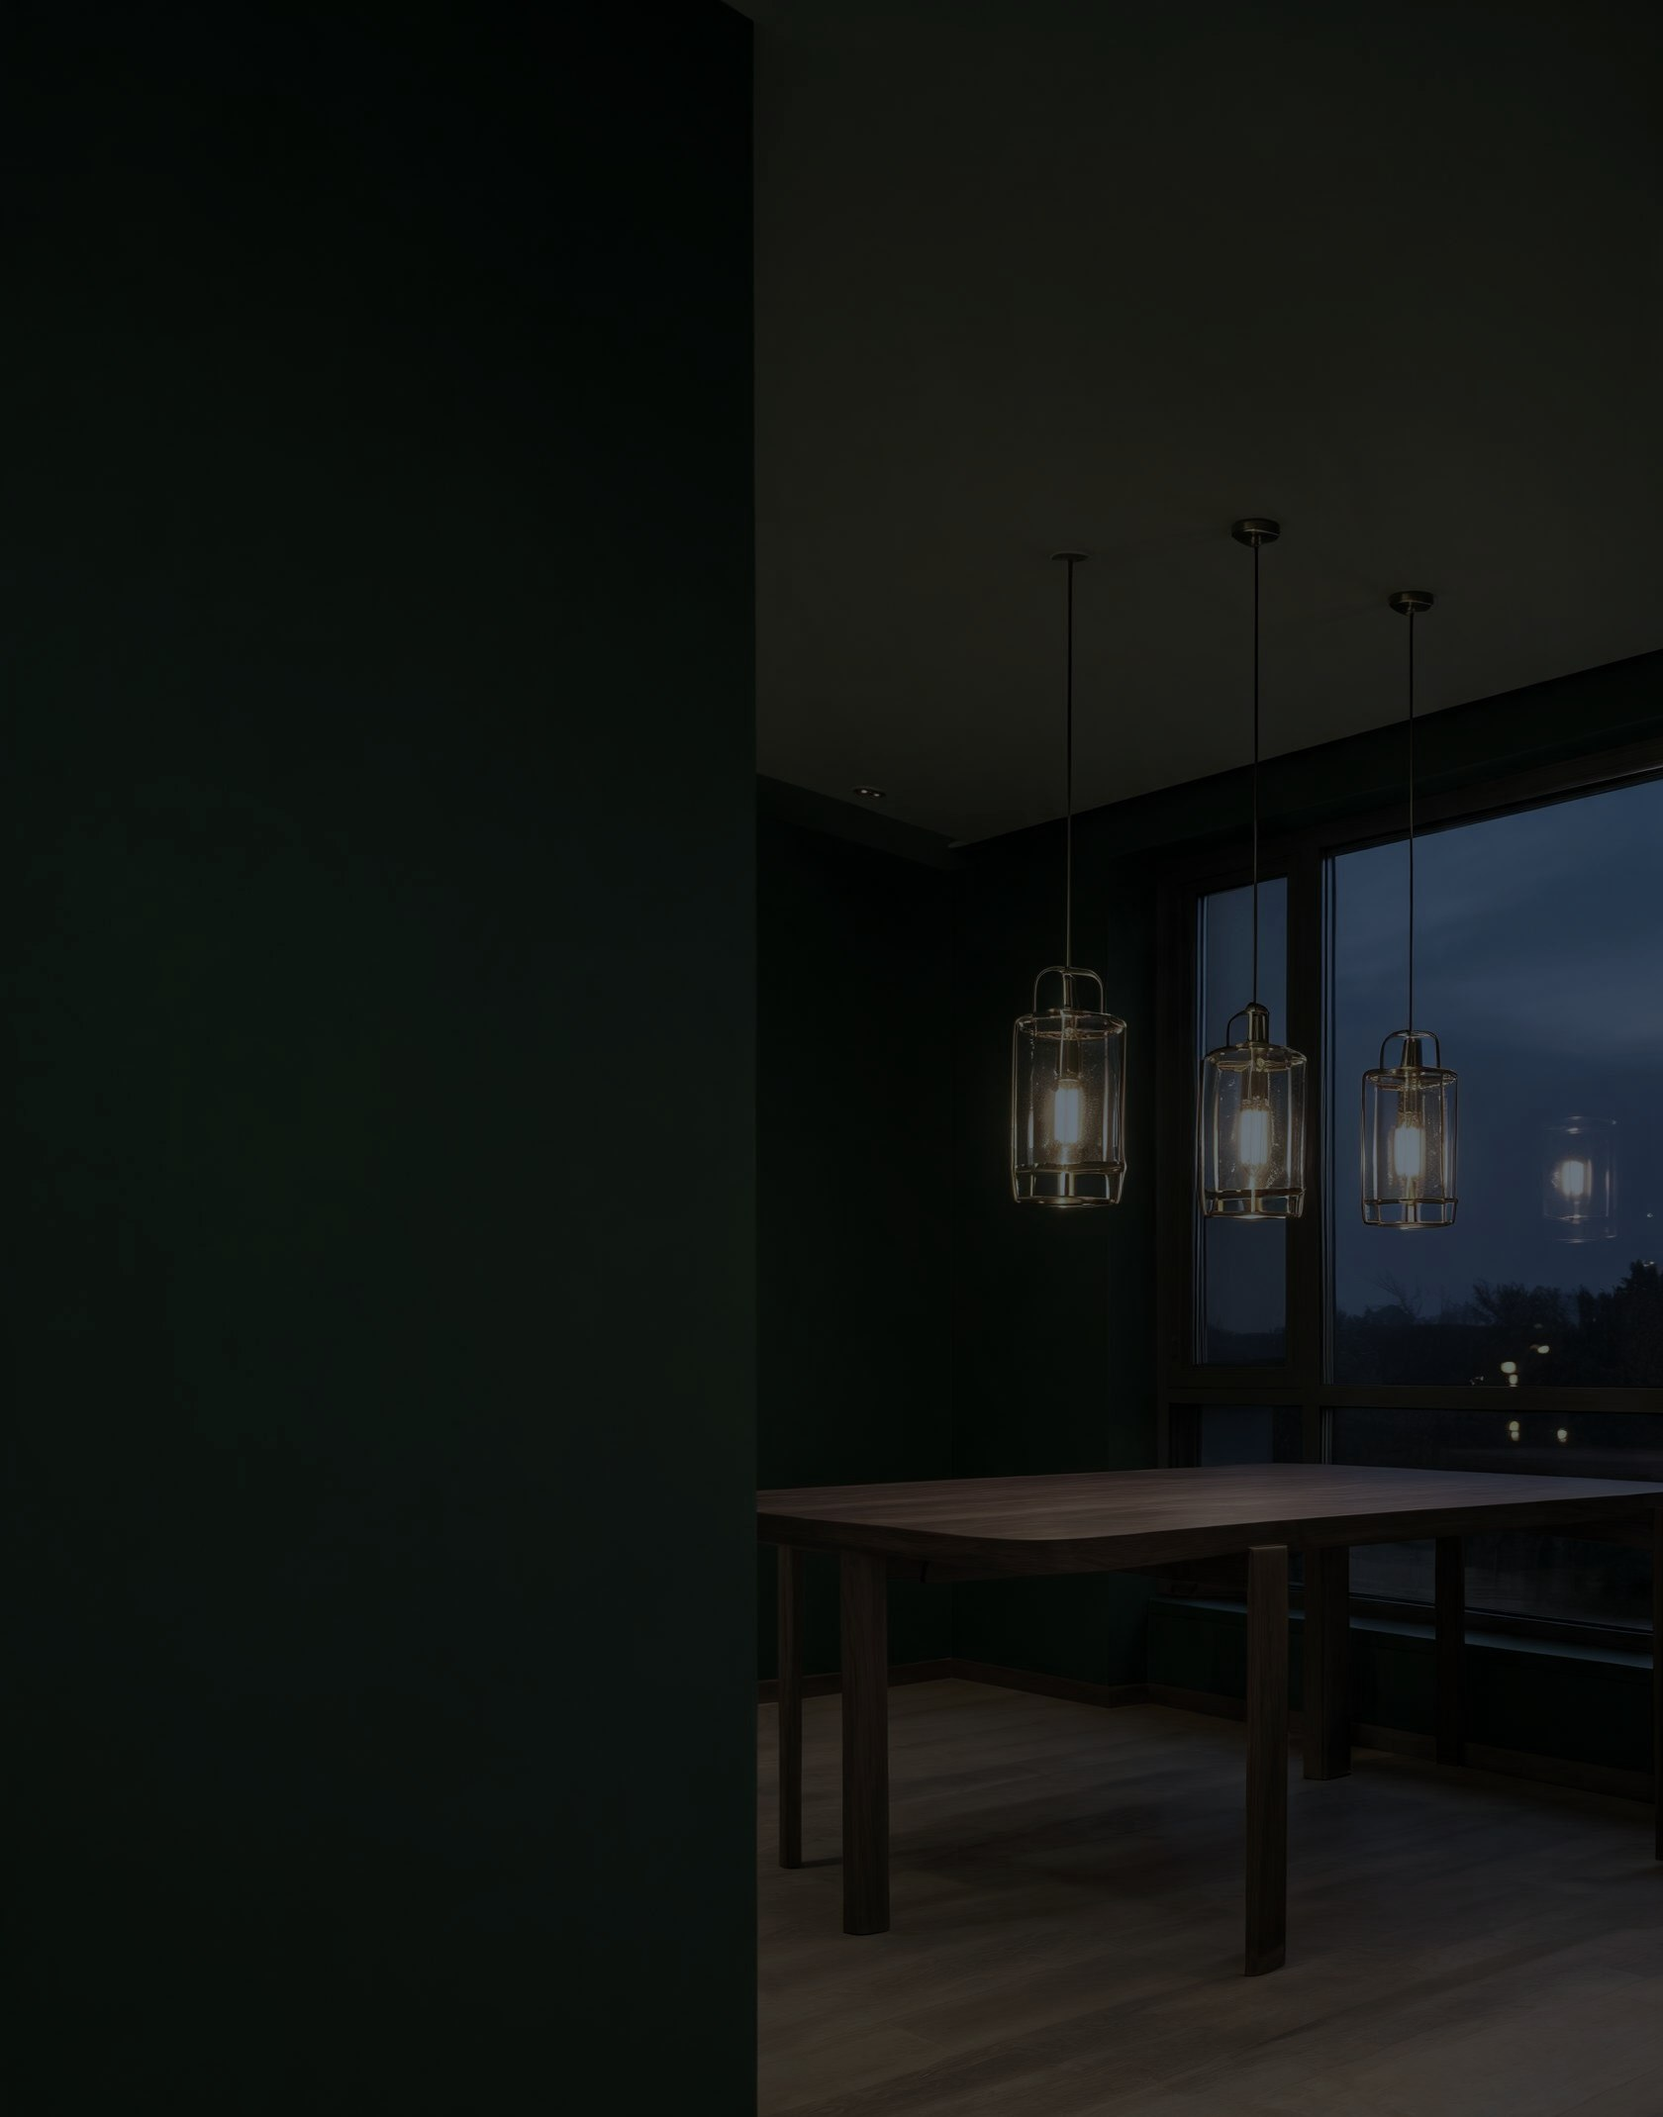
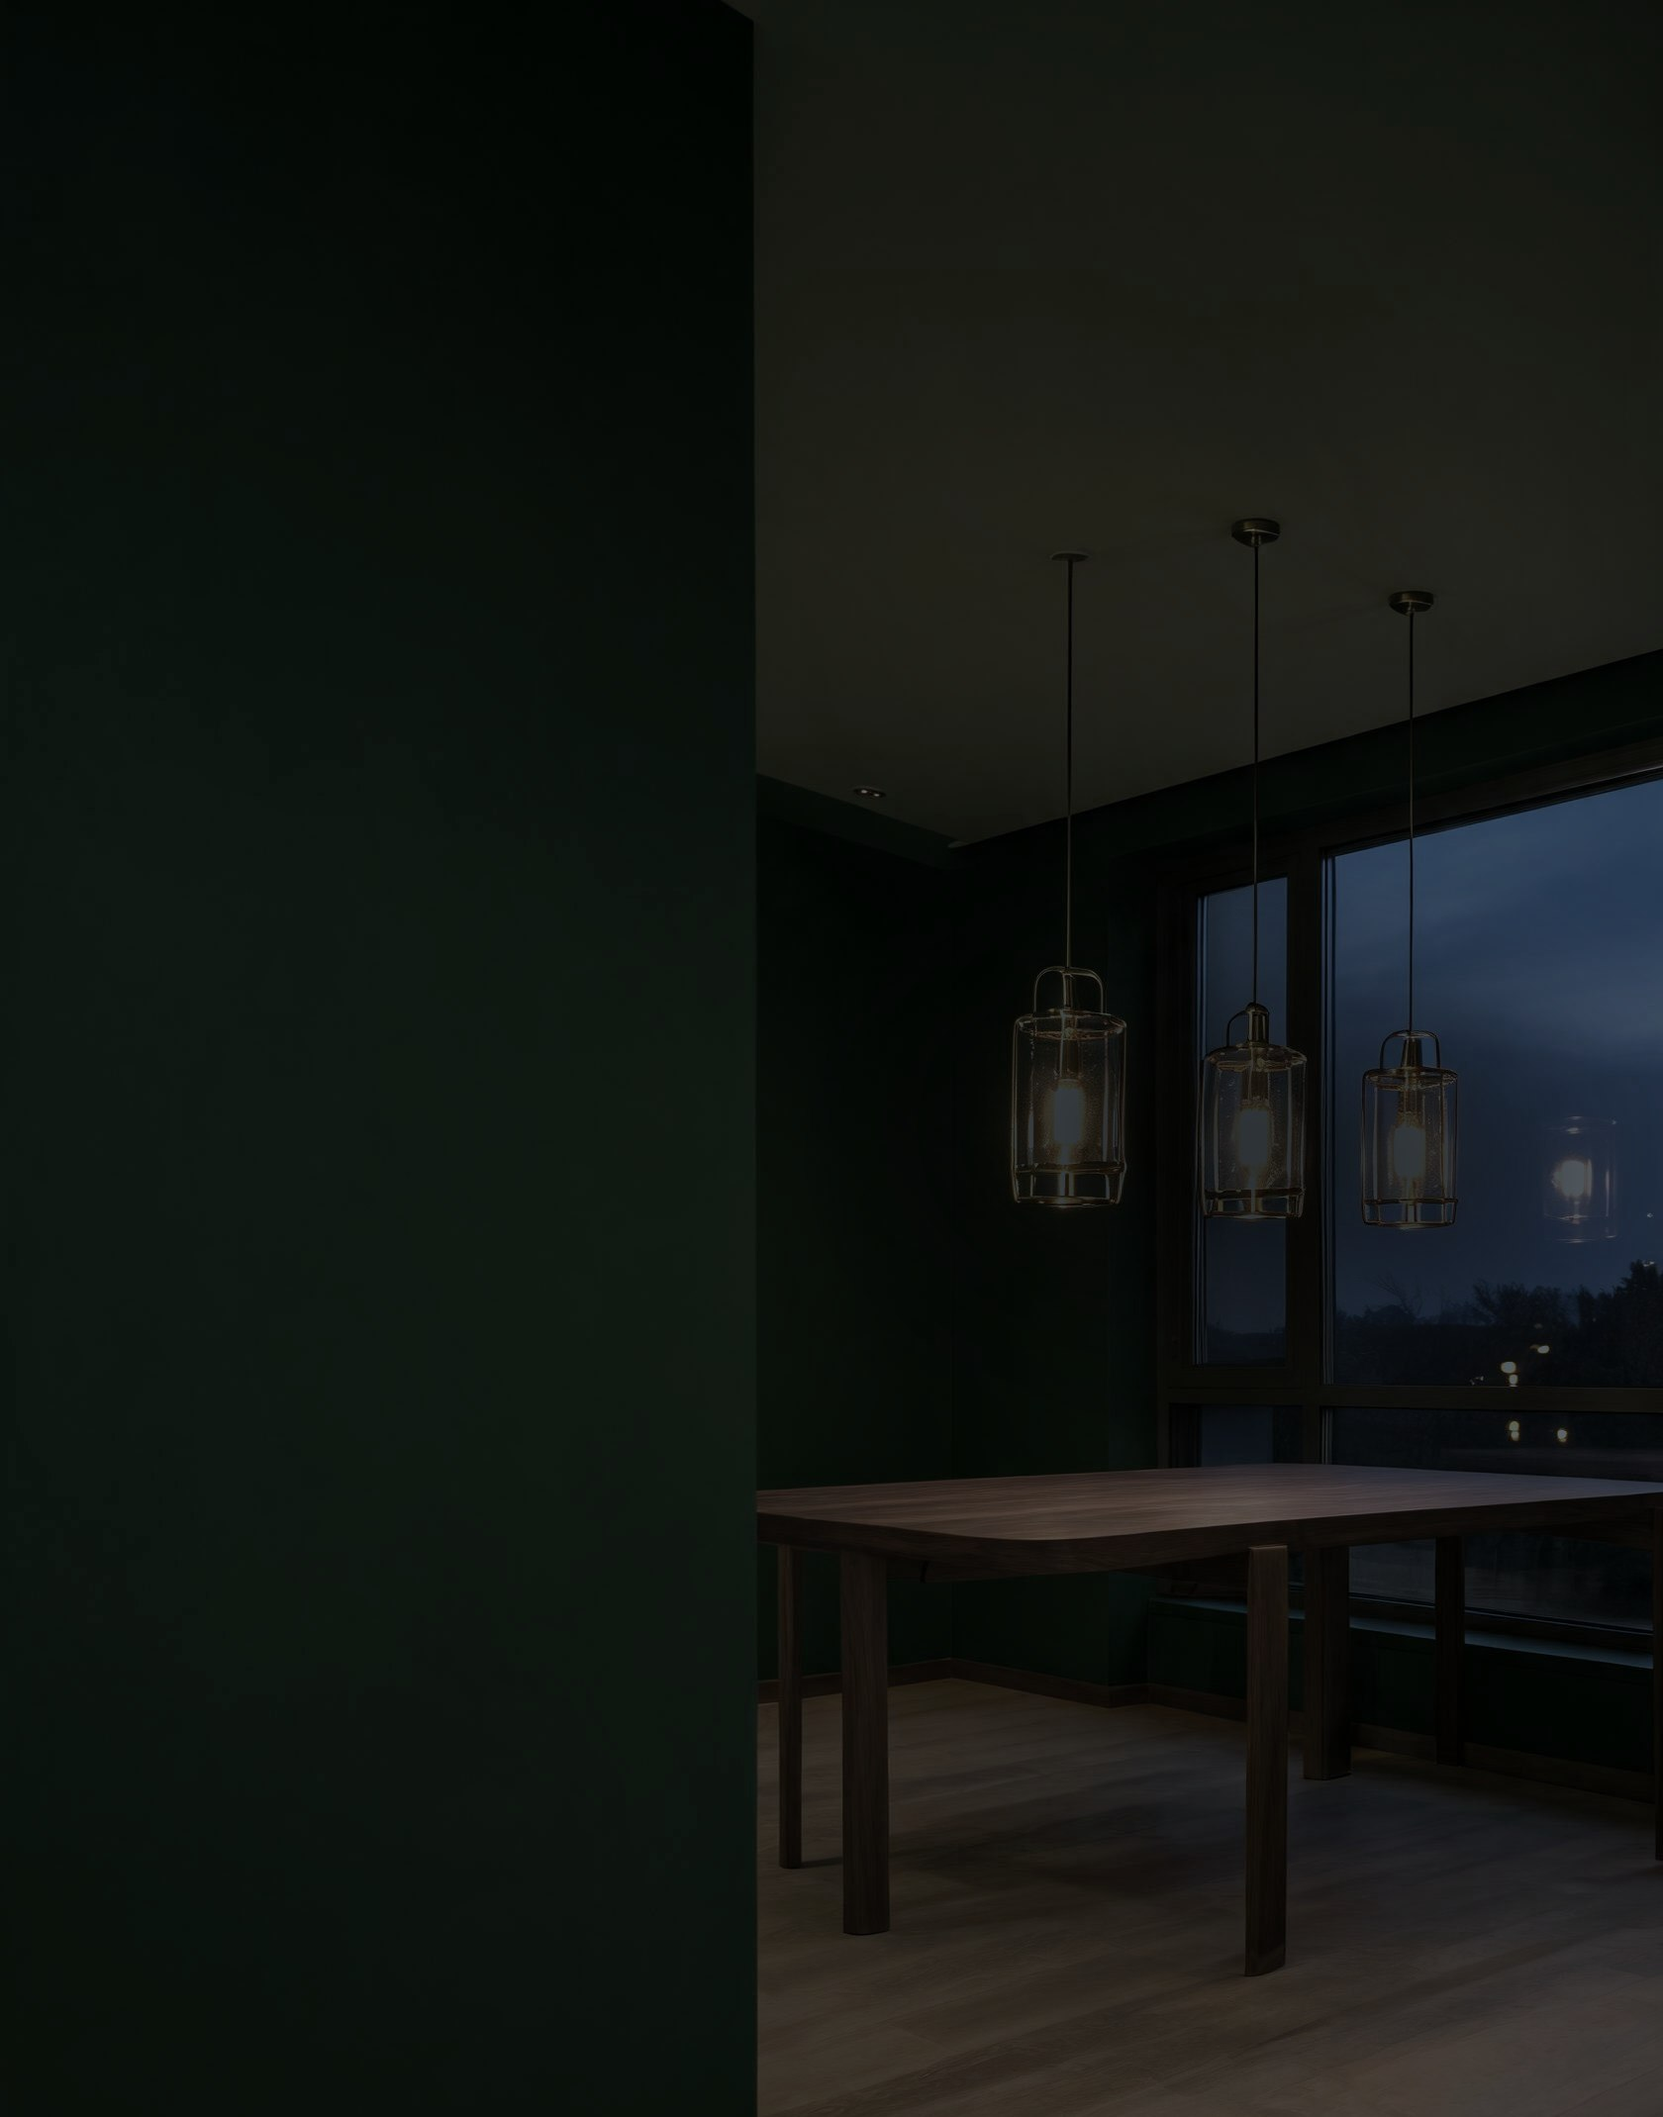
Extinguish hero bulbs in lights-off state, style inner pages, nav polish
- Re-render lights-off cover with crushed highlights and masked
  lamp cores so the pendants read as unlit glass
- Add Home to the main nav, numbered series dropdown, bronze
  header accent line, and a working language dropdown
  (English current / Chinese in preparation)
- Give catalogue and series pages dark photographic page heroes;
  tint contact/search/404/thanks heroes; dark closing CTA on
  factory/oem/about pages; tinted blog list and post CTA card

Changed region(s): [[0.7119, 0.4937, 0.8976, 0.5863], [0.619, 0.4937, 0.681, 0.5863], [0.9286, 0.5554, 0.9595, 0.5863]]

diff --git a/static/css/imperial.css b/static/css/imperial.css
@@ -1496,7 +1496,6 @@ ul, ol { margin: 0 0 1em; padding-left: 1.15em; }
   }
   .has-sub.is-open .sub-menu { display: block; }
   .sub-link { padding: 10px 0 10px 18px; border-bottom: 0; }
-  .nav-lang { display: none; }
   .nav-search .nav-link { padding: 16px 0; }
 
   .hero { min-height: 0; }
@@ -1541,4 +1540,112 @@ ul, ol { margin: 0 0 1em; padding-left: 1.15em; }
 @media (prefers-reduced-motion: reduce) {
   *, *::before, *::after { animation-duration: .01ms !important; transition-duration: .01ms !important; }
   html { scroll-behavior: auto; }
+}
+
+/* ============================================================
+   NAV EXTRAS — language menu, dropdown numbers, header accent
+   ============================================================ */
+.site-header::before {
+  content: "";
+  position: absolute;
+  top: 0;
+  left: 0;
+  right: 0;
+  height: 2px;
+  background: linear-gradient(90deg, var(--bronze) 0%, rgba(125,106,76,.25) 55%, transparent 100%);
+  pointer-events: none;
+}
+.sub-num {
+  font-family: var(--font-serif);
+  font-style: italic;
+  font-size: 12px;
+  color: var(--muted-2);
+  min-width: 18px;
+}
+.lang-btn {
+  background: none;
+  border: 0;
+  cursor: pointer;
+  font-family: var(--font-sans);
+  gap: 7px;
+}
+.lang-btn svg { transition: transform .25s var(--ease); }
+.nav-lang.is-open .lang-btn svg, .nav-lang:hover .lang-btn svg { transform: rotate(180deg); }
+.sub-menu--lang { min-width: 210px; left: auto; right: 0; }
+.sub-link.is-current { color: var(--bronze); }
+.sub-link.is-disabled { color: var(--muted-2); cursor: default; }
+.sub-link.is-disabled:hover { background: transparent; color: var(--muted-2); }
+.lang-note {
+  margin-left: auto;
+  font-family: var(--font-serif);
+  font-style: italic;
+  font-size: 12px;
+  letter-spacing: 0;
+  text-transform: none;
+  color: var(--muted-2);
+}
+
+/* ============================================================
+   INNER PAGE HEROES — dark media + tinted variants
+   ============================================================ */
+.page-hero--media {
+  position: relative;
+  overflow: hidden;
+  background: var(--coal);
+  color: var(--paper);
+  border-bottom: 0;
+  padding: 120px 0 84px;
+}
+.page-hero__media { position: absolute; inset: 0; }
+.page-hero__media img { width: 100%; height: 100%; object-fit: cover; }
+.page-hero__scrim {
+  position: absolute;
+  inset: 0;
+  background:
+    linear-gradient(to top, rgba(16,15,11,.85) 0%, rgba(16,15,11,.4) 55%, rgba(16,15,11,.25) 100%),
+    linear-gradient(100deg, rgba(16,15,11,.5) 0%, rgba(16,15,11,.05) 65%);
+}
+.page-hero--media .shell { position: relative; z-index: 2; }
+.page-hero--media h1 { color: var(--paper); }
+.page-hero--media .page-hero__lede { color: rgba(246,244,238,.82); }
+.page-hero--media .page-hero__count { color: rgba(246,244,238,.62); }
+.page-hero--media .breadcrumbs ol { color: rgba(246,244,238,.5); }
+.page-hero--media .breadcrumbs a { color: rgba(246,244,238,.7); }
+.page-hero--media .breadcrumbs a:hover { color: var(--paper); }
+.page-hero--media .breadcrumbs li + li::before { color: rgba(246,244,238,.32); }
+
+.page-hero--tint { background: var(--paper-2); }
+
+.section--tint {
+  background: var(--paper-2);
+  border-top: 1px solid var(--line);
+  border-bottom: 1px solid var(--line);
+}
+
+/* default pages: dark closing CTA */
+.page-cta {
+  margin: 88px 0 96px;
+  background: var(--coal);
+  color: var(--paper);
+  padding: 72px 64px;
+}
+.page-cta h2 { color: var(--paper); margin-bottom: .4em; }
+.page-cta p { color: rgba(246,244,238,.66); max-width: 520px; }
+.page-cta .eyebrow { color: rgba(246,244,238,.55); }
+.page-cta .eyebrow::after { background: rgba(246,244,238,.25); }
+.page-cta__actions { display: flex; gap: 14px; flex-wrap: wrap; margin-top: 34px; }
+
+/* blog post CTA: tinted card */
+.post-cta {
+  background: var(--paper-2);
+  border: 1px solid var(--line);
+  padding: 48px 52px;
+  margin-top: 80px;
+}
+.post-cta h2 { font-size: clamp(1.6rem, 2.6vw, 2.2rem); }
+
+@media (max-width: 860px) {
+  .page-hero--media { padding: 150px 0 60px; }
+  .page-cta { padding: 52px 32px; margin: 64px 0 72px; }
+  .post-cta { padding: 36px 28px; }
 }

diff --git a/layouts/_partials/header.html b/layouts/_partials/header.html
@@ -21,6 +21,9 @@
 
     <nav class="site-nav" id="site-nav" aria-label="Main">
       <ul class="nav-list">
+        <li class="nav-item">
+          <a href="{{ "" | absURL }}" class="nav-link{{ if .IsHome }} is-active{{ end }}">Home</a>
+        </li>
         {{- range site.Menus.main }}
         {{- $active := or ($.IsMenuCurrent "main" .) ($.HasMenuCurrent "main" .) -}}
         {{- if eq .Name "Products" }}
@@ -28,8 +31,8 @@
           <a href="{{ .URL | absURL }}" class="nav-link{{ if $active }} is-active{{ end }}">Products</a>
           <button class="sub-toggle" type="button" aria-expanded="false" aria-label="Show product series">+</button>
           <div class="sub-menu">
-            {{- range (site.GetPage "/products").Sections }}
-            <a href="{{ .RelPermalink }}" class="sub-link">{{ .Params.seriesName | default .Title }}</a>
+            {{- range $i, $s := (site.GetPage "/products").Sections }}
+            <a href="{{ $s.RelPermalink }}" class="sub-link"><span class="sub-num">{{ printf "%02d" (add $i 1) }}</span>{{ $s.Params.seriesName | default $s.Title }}</a>
             {{- end }}
           </div>
         </li>
@@ -44,10 +47,14 @@
             <svg width="17" height="17" viewBox="0 0 20 20" fill="none" stroke="currentColor" stroke-width="1.4"><circle cx="8.5" cy="8.5" r="5.5"/><path d="M12.8 12.8L18 18"/></svg>
           </a>
         </li>
-        <li class="nav-item nav-lang">
-          <span class="lang-switch" role="button" tabindex="0" aria-disabled="true" title="English is the only language available in this release">EN
-            <svg width="9" height="9" viewBox="0 0 10 10" fill="none" stroke="currentColor" stroke-width="1.2"><path d="M2 4l3 3 3-3"/></svg>
-          </span>
+        <li class="nav-item nav-lang has-sub">
+          <button class="nav-link lang-btn" type="button" aria-expanded="false" aria-haspopup="true">EN
+            <svg width="9" height="9" viewBox="0 0 10 10" fill="none" stroke="currentColor" stroke-width="1.2" aria-hidden="true"><path d="M2 4l3 3 3-3"/></svg>
+          </button>
+          <div class="sub-menu sub-menu--lang">
+            <span class="sub-link is-current">English<span class="lang-note">current</span></span>
+            <span class="sub-link is-disabled" title="Chinese version is in preparation">中文<span class="lang-note">in preparation</span></span>
+          </div>
         </li>
       </ul>
     </nav>

diff --git a/layouts/products/list.html b/layouts/products/list.html
@@ -6,10 +6,21 @@
     (dict "name" "Home" "url" ("" | absURL))
     (dict "name" "Products" "url" ("products/" | absURL))
     (dict "name" (.Params.seriesName | default .Title) "url" .RelPermalink) -}}
-  <section class="page-hero">
+  {{- $heroFiles := dict
+    "pendant" "series-pendant.jpg"
+    "ceiling" "series-ceiling.jpg"
+    "outdoor" "series-outdoor.jpg"
+    "wall" "series-wall.jpg"
+    "table" "series-table.jpg"
+    "floor" "series-floor.jpg"
+  -}}
+  {{- $heroFile := index $heroFiles .Params.seriesKey | default "hero-interior.jpg" -}}
+  <section class="page-hero page-hero--media">
+    <div class="page-hero__media" aria-hidden="true"><img src="{{ (printf "images/%s" $heroFile) | absURL }}" alt="" width="1200" height="900"></div>
+    <div class="page-hero__scrim" aria-hidden="true"></div>
     <div class="shell">
       {{ partial "breadcrumbs.html" $crumbs }}
-      <p class="eyebrow">{{ .Params.seriesName }}</p>
+      <p class="eyebrow eyebrow--light">{{ .Params.seriesName }}</p>
       <h1>{{ .Title }}</h1>
       <p class="page-hero__lede">{{ .Description }}</p>
       <p class="page-hero__count">{{ len $items }} models in this series</p>
@@ -87,10 +98,12 @@
   </section>
 {{- else -}}
   {{- $series := .Sections -}}
-  <section class="page-hero">
+  <section class="page-hero page-hero--media">
+    <div class="page-hero__media" aria-hidden="true"><img src="{{ "images/hero-interior.jpg" | absURL }}" alt="" width="1680" height="2139"></div>
+    <div class="page-hero__scrim" aria-hidden="true"></div>
     <div class="shell">
       {{ partial "breadcrumbs.html" (slice (dict "name" "Home" "url" ("" | absURL)) (dict "name" "Products" "url" .RelPermalink)) }}
-      <p class="eyebrow">Catalogue</p>
+      <p class="eyebrow eyebrow--light">Catalogue</p>
       <h1 class="h-display">Product Catalogue</h1>
       <p class="page-hero__lede">{{ .Description }}</p>
     </div>

diff --git a/layouts/_default/single.html b/layouts/_default/single.html
@@ -25,6 +25,16 @@
       <p>Send the models and target market. We reply within one business day.</p>
       <a class="btn btn-primary" href="{{ "contact/" | absURL }}">Request a quote</a>
     </div>
+    {{- else }}
+    <div class="page-cta">
+      <p class="eyebrow">Next step</p>
+      <h2>Tell us what you are <em>sourcing.</em></h2>
+      <p>Send the models, finishes or drawings. We reply within one business day with price, lead time and the documents available for your market.</p>
+      <div class="page-cta__actions">
+        <a class="btn btn-light" href="{{ "contact/" | absURL }}">Request a quote</a>
+        <a class="btn btn-ghostlight" href="{{ "products/" | absURL }}">Browse the catalogue</a>
+      </div>
+    </div>
     {{- end }}
   </div>
 </article>

diff --git a/layouts/_partials/head.html b/layouts/_partials/head.html
@@ -40,7 +40,7 @@
 <link rel="preconnect" href="https://fonts.googleapis.com">
 <link rel="preconnect" href="https://fonts.gstatic.com" crossorigin>
 <link href="https://fonts.googleapis.com/css2?family=Inter+Tight:ital,wght@0,300;0,400;0,500;1,300&family=Instrument+Serif:ital@0;1&display=swap" rel="stylesheet">
-<link rel="stylesheet" href="{{ "css/imperial.css" | absURL }}?v=20261109c">
+<link rel="stylesheet" href="{{ "css/imperial.css" | absURL }}?v=20261109d">
 {{ partial "schema.html" . }}
 {{- with site.Params.cloudflareAnalyticsToken }}
 <script defer src="https://static.cloudflareinsights.com/beacon.min.js" data-cf-beacon='{"token":"{{ . }}"}'></script>

diff --git a/static/js/site.js b/static/js/site.js
@@ -25,6 +25,16 @@
     });
   });
 
+  /* language menu */
+  document.querySelectorAll(".lang-btn").forEach(function (btn) {
+    btn.addEventListener("click", function (e) {
+      e.preventDefault();
+      var item = btn.closest(".has-sub");
+      var open = item.classList.toggle("is-open");
+      btn.setAttribute("aria-expanded", open ? "true" : "false");
+    });
+  });
+
   /* search */
   var input = document.getElementById("search-input");
   var results = document.getElementById("search-results");

diff --git a/layouts/contact/single.html b/layouts/contact/single.html
@@ -1,5 +1,5 @@
 {{ define "main" }}
-<section class="page-hero page-hero--contact">
+<section class="page-hero page-hero--contact page-hero--tint">
   <div class="shell">
     {{ partial "breadcrumbs.html" (slice (dict "name" "Home" "url" ("" | absURL)) (dict "name" "Contact" "url" .RelPermalink)) }}
     <p class="eyebrow">Inquiry</p>

diff --git a/layouts/_default/list.html b/layouts/_default/list.html
@@ -7,7 +7,7 @@
     {{- with .Description }}<p class="page-hero__lede">{{ . }}</p>{{ end }}
   </div>
 </section>
-<section class="section">
+<section class="section section--tint">
   <div class="shell">
     <div class="post-grid">
       {{- range .RegularPages.ByDate.Reverse }}

diff --git a/layouts/thanks/single.html b/layouts/thanks/single.html
@@ -1,5 +1,5 @@
 {{ define "main" }}
-<section class="page-hero page-hero--thanks">
+<section class="page-hero page-hero--thanks page-hero--tint">
   <div class="shell narrow">
     <p class="eyebrow">Inquiry received</p>
     <h1>Thank you — we have your request.</h1>

diff --git a/layouts/baseof.html b/layouts/baseof.html
@@ -10,6 +10,6 @@
   </main>
   {{ partial "footer.html" . }}
   {{ partial "whatsapp.html" . }}
-  <script src="{{ "js/site.js" | absURL }}?v=20261109c" defer></script>
+  <script src="{{ "js/site.js" | absURL }}?v=20261109d" defer></script>
 </body>
 </html>

diff --git a/layouts/404.html b/layouts/404.html
@@ -1,5 +1,5 @@
 {{ define "main" }}
-<section class="page-hero page-hero--404">
+<section class="page-hero page-hero--404 page-hero--tint">
   <div class="shell narrow">
     <p class="eyebrow">404</p>
     <h1>This page is not in the catalogue.</h1>

diff --git a/layouts/search.html b/layouts/search.html
@@ -1,5 +1,5 @@
 {{ define "main" }}
-<section class="page-hero">
+<section class="page-hero page-hero--tint">
   <div class="shell narrow">
     <p class="eyebrow">Catalogue search</p>
     <h1>Find a model or product</h1>
